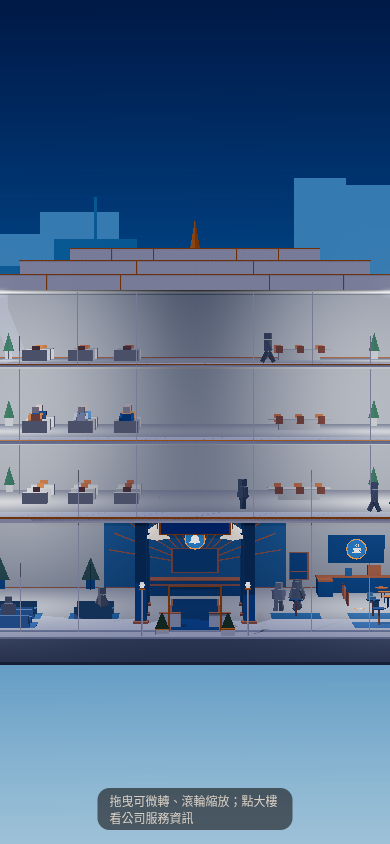
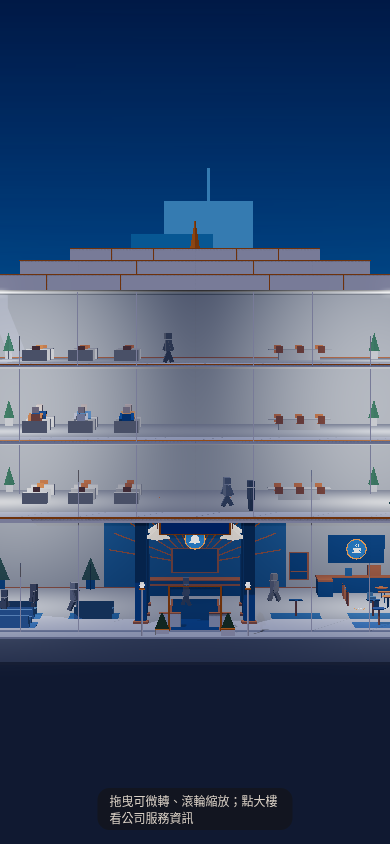
P007: huge ground plane to horizon, wider skyline, fog, camera kept above ground

diff --git a/site/index.html b/site/index.html
@@ -240,7 +240,7 @@ const target = new THREE.Vector3(), camPos = new THREE.Vector3(); let tweenT = 1
 let towerH = 4 * FH;
 function camHome(H) { towerH = H; const a = innerWidth / Math.max(1, innerHeight), tv = Math.tan(camera.fov * Math.PI / 360), th = tv * a; const dist = Math.max((H + 6) / 2 / tv, (W1 / 2 + 2) / th) + D1 / 2; setCam(new THREE.Vector3(0, (H + 4) / 2, 0), dist, true, a < 1); }
 function setCam(t, dist, now, straight) { from.p.copy(camera.position); from.t.copy(controls.target); target.copy(t); camPos.set(straight ? 0 : t.x + dist * .12, t.y + dist * .05, t.z + dist); tweenT = now ? 1 : 0; if (now) { camera.position.copy(camPos); controls.target.copy(target); } }
-controls.maxDistance = 260; camera.far = 700; camera.updateProjectionMatrix();
+controls.maxDistance = 260; camera.far = 1600; controls.maxPolarAngle = 1.55; camera.updateProjectionMatrix();
 build([{ floor_id: 'RF' }, { floor_id: '3F' }, { floor_id: '2F' }, { floor_id: '1F' }]);
 { const OM = { desk: mat(0xFFFFFF), edge: mat(0xF08A24), chair: DS(mat(0xF08A24)), screen: mat(0x5A6B7D), pot: DS(mat(0xF4F6F9)), leaf: DS(mat(0x5E9E6A)), table: mat(0xF4F6F9) };
   const U = (parts) => mergeGeometries(parts.map(q => { const gg = q[0].index ? q[0].toNonIndexed() : q[0].clone(); gg.deleteAttribute('uv'); gg.deleteAttribute('normal'); gg.translate(q[1], q[2], q[3]); gg.computeVertexNormals(); return gg; }));
@@ -319,13 +319,13 @@ fetch('roster.json', { cache: 'no-store' }).then(r => r.ok ? r.json() : null).th
 for (let k = 0; k < 90; k++) people(1 / 30, k / 30);
 function loop() { requestAnimationFrame(loop); const t = clock.getElapsedTime(), dt = Math.min(.1, t - last); last = t; if (!SHOT) people(dt, t);
   if (tweenT < 1) { tweenT = Math.min(1, tweenT + .045); const k = 1 - Math.pow(1 - tweenT, 3); camera.position.lerpVectors(from.p, camPos, k); controls.target.lerpVectors(from.t, target, k); }
-  controls.update(); tags(); composer.render(); }
+  controls.update(); if (camera.position.y < 1.2) { camera.position.y = 1.2; } tags(); composer.render(); }
 { // city skyline: flat silhouettes in 3 depths, unlit, no shadows, not clickable
   let sd = 7; const R = () => (sd = (sd * 16807) % 2147483647) / 2147483647;
   const LAY = [{ z: -95, c: 0x1B3D66, hMin: 6, hMax: 20, w: [5, 11] }, { z: -150, c: 0x285886, hMin: 10, hMax: 32, w: [7, 15] }, { z: -220, c: 0x3C70A2, hMin: 14, hMax: 46, w: [9, 20] }];
   const WIN = []; const sky = new THREE.Group(); sky.name = 'SKYLINE';
-  LAY.forEach((l, li) => { const parts = []; let x = -260;
-    while (x < 260) { const w = l.w[0] + R() * (l.w[1] - l.w[0]), h = l.hMin + R() * (l.hMax - l.hMin), gap = R() < .25 ? 1 + R() * 3 : 0;
+  LAY.forEach((l, li) => { const parts = []; let x = -560;
+    while (x < 560) { const w = l.w[0] + R() * (l.w[1] - l.w[0]), h = l.hMin + R() * (l.hMax - l.hMin), gap = R() < .25 ? 1 + R() * 3 : 0;
       const g = new THREE.PlaneGeometry(w, h + 8); g.translate(x + w / 2, (h + 8) / 2 - 8, l.z); parts.push(g);
       if (R() < .2) { const s = new THREE.PlaneGeometry(.5, 4 + R() * 5); s.translate(x + w / 2, h + 2, l.z); parts.push(s); }
       if (li === 0 && R() < .55) { const n = 1 + Math.floor(R() * 3); for (let k = 0; k < n; k++) WIN.push([x + 1 + R() * (w - 2), 1 + R() * (h - 2), l.z + .05]); }
@@ -334,10 +334,15 @@ function loop() { requestAnimationFrame(loop); const t = clock.getElapsedTime(),
   const wm = new THREE.InstancedMesh(new THREE.PlaneGeometry(.55, .75), new THREE.MeshBasicMaterial({ color: 0xE98A3A }), WIN.length); const o = new THREE.Object3D();
   WIN.forEach((p, i) => { o.position.set(p[0], p[1], p[2]); o.updateMatrix(); wm.setMatrixAt(i, o.matrix); }); wm.raycast = () => {}; sky.add(wm);
   scene.add(sky); }
+{ // big ground: one 2-tri plane to the skyline and beyond; inner part keeps the plaza look, far part fades into fog
+  const gm = new THREE.MeshStandardMaterial({ color: 0x3E4C5E, roughness: 1 });
+  const gp = new THREE.Mesh(new THREE.PlaneGeometry(2400, 2400).rotateX(-Math.PI / 2), gm); gp.position.y = -.21; gp.receiveShadow = true; gp.raycast = () => {}; gp.name = 'GROUND_far'; scene.add(gp);
+  scene.fog = new THREE.Fog(0x1B3D66, 300, 900); }
 function stats() { let tris = 0, meshes = 0; scene.updateMatrixWorld(true); scene.traverse(x => { if (!x.isMesh || !x.visible || (x.material && x.material.visible === false)) return; meshes++; const g = x.geometry, n = (g.index ? g.index.count : g.attributes.position.count) / 3; tris += n * (x.isInstancedMesh ? x.count : 1); }); return { tris: Math.round(tris), meshes }; }
 window.Tower = { stats, scene };
 if (SHOT === 'floor3') { const y = floorY['3F']; controls.minDistance = 1; tweenT = 1; target.set(-7.5, y + 1.1, -1.5); camPos.set(-6.8, y + 3.6, 15.5); camera.position.copy(camPos); controls.target.copy(target); }
 if (SHOT === 'lobby') { const y = floorY['1F']; controls.minDistance = 1; tweenT = 1; target.set(0, y + 2.8, 0); camPos.set(1.5, y + 3.8, 26); camera.position.copy(camPos); controls.target.copy(target); }
+if (Q.get('az') !== null) { const az = +Q.get('az'), po = Math.min(1.55, +Q.get('pol')), d = +Q.get('dist'); tweenT = 1; controls.update(); const tg = controls.target.clone(); camera.position.set(tg.x + d * Math.sin(po) * Math.sin(az), tg.y + d * Math.cos(po), tg.z + d * Math.sin(po) * Math.cos(az)); camera.lookAt(tg); }
 if (SHOT === 'info') info.style.display = 'block';
 document.title = 'STATS=' + JSON.stringify(stats());
 loop();

diff --git a/tools/tail.js b/tools/tail.js
@@ -3,7 +3,7 @@ const target = new THREE.Vector3(), camPos = new THREE.Vector3(); let tweenT = 1
 let towerH = 4 * FH;
 function camHome(H) { towerH = H; const a = innerWidth / Math.max(1, innerHeight), tv = Math.tan(camera.fov * Math.PI / 360), th = tv * a; const dist = Math.max((H + 6) / 2 / tv, (W1 / 2 + 2) / th) + D1 / 2; setCam(new THREE.Vector3(0, (H + 4) / 2, 0), dist, true, a < 1); }
 function setCam(t, dist, now, straight) { from.p.copy(camera.position); from.t.copy(controls.target); target.copy(t); camPos.set(straight ? 0 : t.x + dist * .12, t.y + dist * .05, t.z + dist); tweenT = now ? 1 : 0; if (now) { camera.position.copy(camPos); controls.target.copy(target); } }
-controls.maxDistance = 260; camera.far = 700; camera.updateProjectionMatrix();
+controls.maxDistance = 260; camera.far = 1600; controls.maxPolarAngle = 1.55; camera.updateProjectionMatrix();
 build([{ floor_id: 'RF' }, { floor_id: '3F' }, { floor_id: '2F' }, { floor_id: '1F' }]);
 { const OM = { desk: mat(0xFFFFFF), edge: mat(0xF08A24), chair: DS(mat(0xF08A24)), screen: mat(0x5A6B7D), pot: DS(mat(0xF4F6F9)), leaf: DS(mat(0x5E9E6A)), table: mat(0xF4F6F9) };
   const U = (parts) => mergeGeometries(parts.map(q => { const gg = q[0].index ? q[0].toNonIndexed() : q[0].clone(); gg.deleteAttribute('uv'); gg.deleteAttribute('normal'); gg.translate(q[1], q[2], q[3]); gg.computeVertexNormals(); return gg; }));
@@ -82,13 +82,13 @@ fetch('roster.json', { cache: 'no-store' }).then(r => r.ok ? r.json() : null).th
 for (let k = 0; k < 90; k++) people(1 / 30, k / 30);
 function loop() { requestAnimationFrame(loop); const t = clock.getElapsedTime(), dt = Math.min(.1, t - last); last = t; if (!SHOT) people(dt, t);
   if (tweenT < 1) { tweenT = Math.min(1, tweenT + .045); const k = 1 - Math.pow(1 - tweenT, 3); camera.position.lerpVectors(from.p, camPos, k); controls.target.lerpVectors(from.t, target, k); }
-  controls.update(); tags(); composer.render(); }
+  controls.update(); if (camera.position.y < 1.2) { camera.position.y = 1.2; } tags(); composer.render(); }
 { // city skyline: flat silhouettes in 3 depths, unlit, no shadows, not clickable
   let sd = 7; const R = () => (sd = (sd * 16807) % 2147483647) / 2147483647;
   const LAY = [{ z: -95, c: 0x1B3D66, hMin: 6, hMax: 20, w: [5, 11] }, { z: -150, c: 0x285886, hMin: 10, hMax: 32, w: [7, 15] }, { z: -220, c: 0x3C70A2, hMin: 14, hMax: 46, w: [9, 20] }];
   const WIN = []; const sky = new THREE.Group(); sky.name = 'SKYLINE';
-  LAY.forEach((l, li) => { const parts = []; let x = -260;
-    while (x < 260) { const w = l.w[0] + R() * (l.w[1] - l.w[0]), h = l.hMin + R() * (l.hMax - l.hMin), gap = R() < .25 ? 1 + R() * 3 : 0;
+  LAY.forEach((l, li) => { const parts = []; let x = -560;
+    while (x < 560) { const w = l.w[0] + R() * (l.w[1] - l.w[0]), h = l.hMin + R() * (l.hMax - l.hMin), gap = R() < .25 ? 1 + R() * 3 : 0;
       const g = new THREE.PlaneGeometry(w, h + 8); g.translate(x + w / 2, (h + 8) / 2 - 8, l.z); parts.push(g);
       if (R() < .2) { const s = new THREE.PlaneGeometry(.5, 4 + R() * 5); s.translate(x + w / 2, h + 2, l.z); parts.push(s); }
       if (li === 0 && R() < .55) { const n = 1 + Math.floor(R() * 3); for (let k = 0; k < n; k++) WIN.push([x + 1 + R() * (w - 2), 1 + R() * (h - 2), l.z + .05]); }
@@ -97,10 +97,15 @@ function loop() { requestAnimationFrame(loop); const t = clock.getElapsedTime(),
   const wm = new THREE.InstancedMesh(new THREE.PlaneGeometry(.55, .75), new THREE.MeshBasicMaterial({ color: 0xE98A3A }), WIN.length); const o = new THREE.Object3D();
   WIN.forEach((p, i) => { o.position.set(p[0], p[1], p[2]); o.updateMatrix(); wm.setMatrixAt(i, o.matrix); }); wm.raycast = () => {}; sky.add(wm);
   scene.add(sky); }
+{ // big ground: one 2-tri plane to the skyline and beyond; inner part keeps the plaza look, far part fades into fog
+  const gm = new THREE.MeshStandardMaterial({ color: 0x3E4C5E, roughness: 1 });
+  const gp = new THREE.Mesh(new THREE.PlaneGeometry(2400, 2400).rotateX(-Math.PI / 2), gm); gp.position.y = -.21; gp.receiveShadow = true; gp.raycast = () => {}; gp.name = 'GROUND_far'; scene.add(gp);
+  scene.fog = new THREE.Fog(0x1B3D66, 300, 900); }
 function stats() { let tris = 0, meshes = 0; scene.updateMatrixWorld(true); scene.traverse(x => { if (!x.isMesh || !x.visible || (x.material && x.material.visible === false)) return; meshes++; const g = x.geometry, n = (g.index ? g.index.count : g.attributes.position.count) / 3; tris += n * (x.isInstancedMesh ? x.count : 1); }); return { tris: Math.round(tris), meshes }; }
 window.Tower = { stats, scene };
 if (SHOT === 'floor3') { const y = floorY['3F']; controls.minDistance = 1; tweenT = 1; target.set(-7.5, y + 1.1, -1.5); camPos.set(-6.8, y + 3.6, 15.5); camera.position.copy(camPos); controls.target.copy(target); }
 if (SHOT === 'lobby') { const y = floorY['1F']; controls.minDistance = 1; tweenT = 1; target.set(0, y + 2.8, 0); camPos.set(1.5, y + 3.8, 26); camera.position.copy(camPos); controls.target.copy(target); }
+if (Q.get('az') !== null) { const az = +Q.get('az'), po = Math.min(1.55, +Q.get('pol')), d = +Q.get('dist'); tweenT = 1; controls.update(); const tg = controls.target.clone(); camera.position.set(tg.x + d * Math.sin(po) * Math.sin(az), tg.y + d * Math.cos(po), tg.z + d * Math.sin(po) * Math.cos(az)); camera.lookAt(tg); }
 if (SHOT === 'info') info.style.display = 'block';
 document.title = 'STATS=' + JSON.stringify(stats());
 loop();
